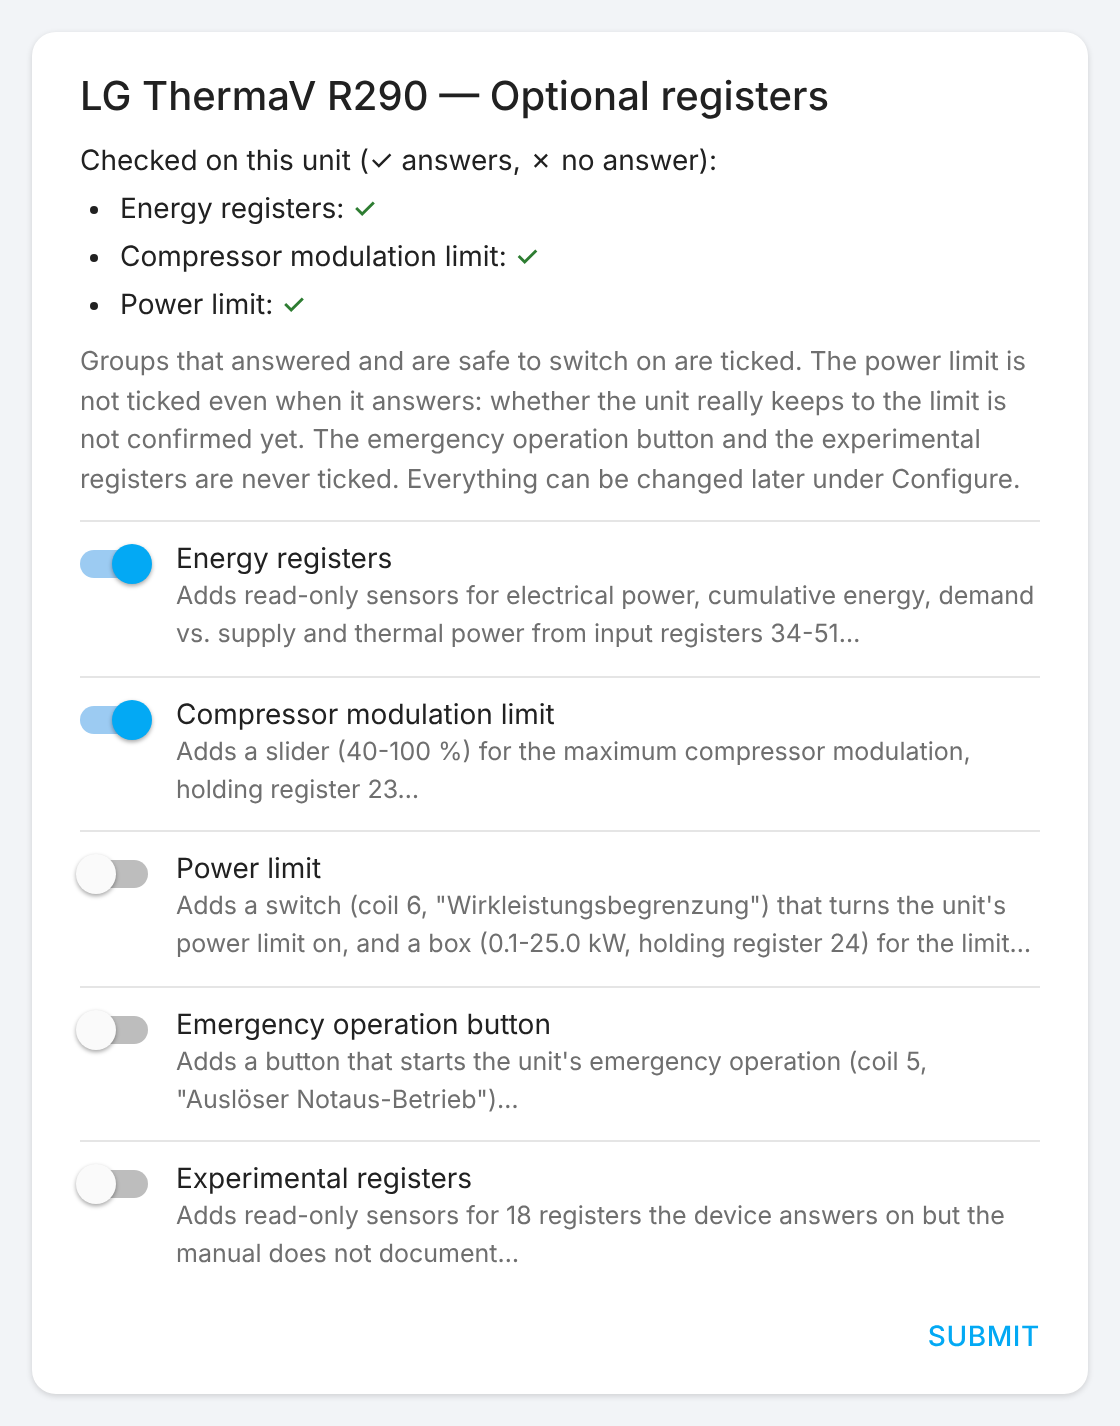
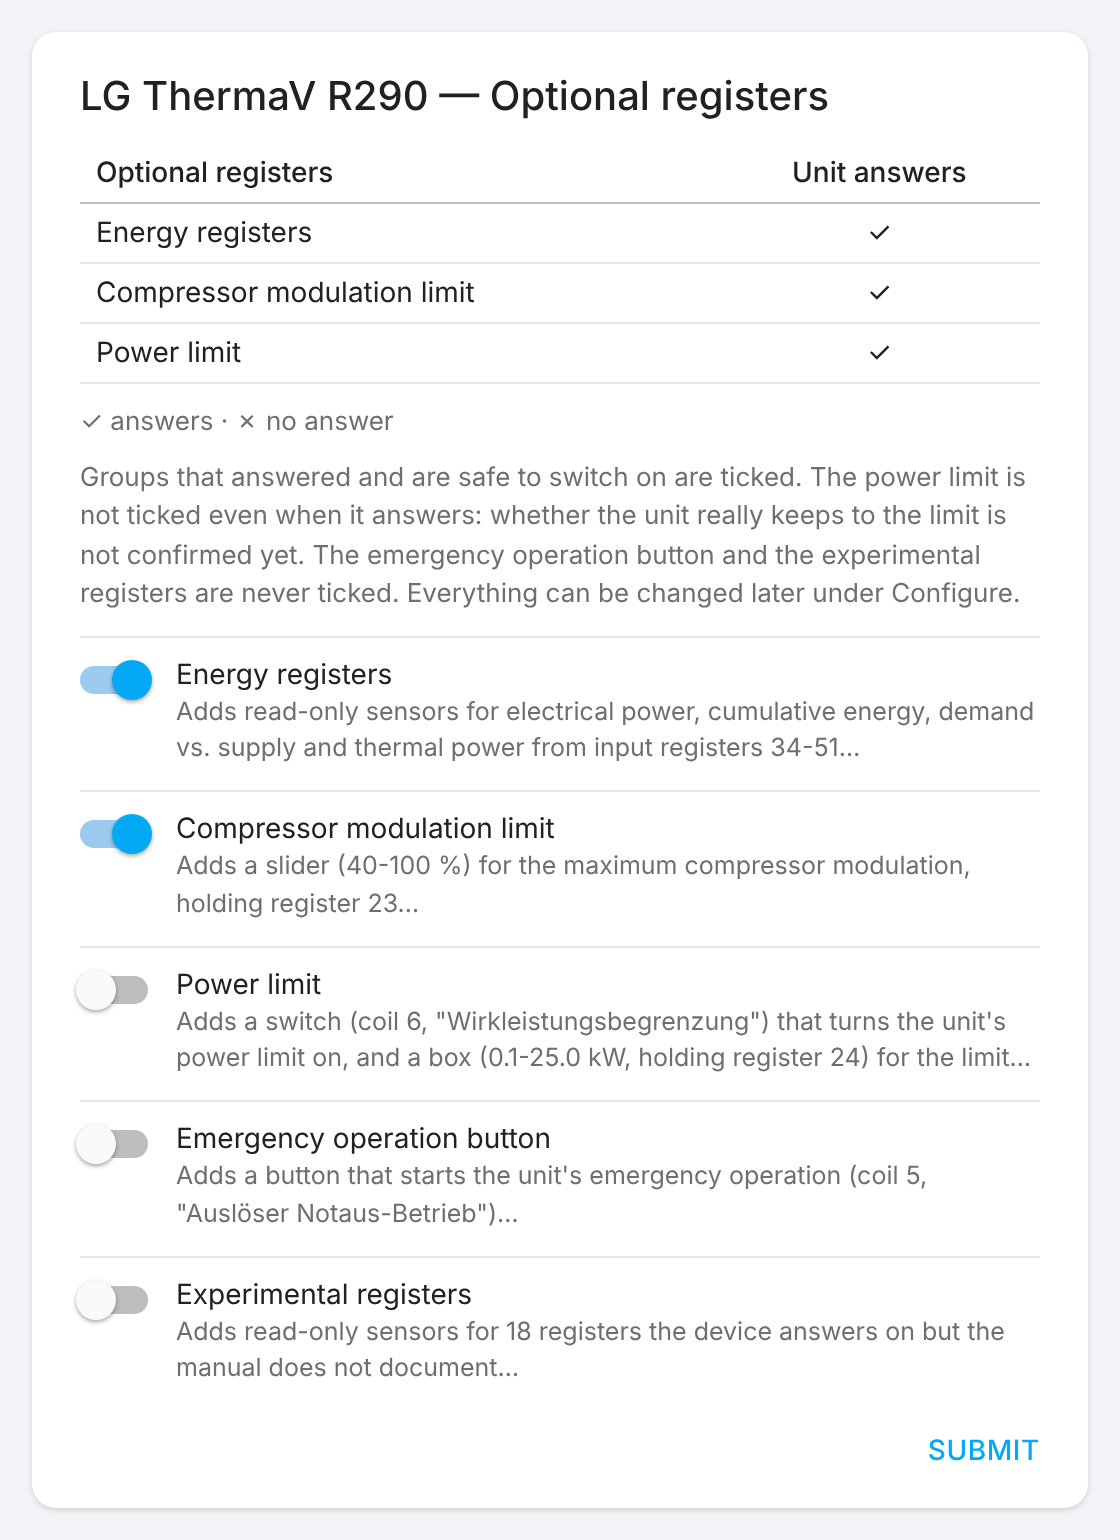
Configure as a menu, with a status table of the optional registers
Configure now opens a menu: a table at the top shows per optional group
whether it is on and what the unit answered on the last check, with a mark
on the groups that answer but are off (what could be switched on), and the
time of that check. Below it, "Options" opens the form (same table above
it) and "Check the optional registers" runs the check and then opens the
form with what answered ticked. The checkbox in the form is gone.

The setup's last step shows the result as a table too. The pictures in
the README are redrawn.

Claude-Session: https://claude.ai/code/session_01818XvRdtC3m2KqpGijvKHP

Changed region(s): [[0.0625, 0.0309, 0.9375, 0.8948], [0.8125, 0.9257, 0.9375, 0.9565], [0.0938, 0.5863, 0.125, 0.6788]]

diff --git a/custom_components/lg_thermav_r290/config_flow.py b/custom_components/lg_thermav_r290/config_flow.py
@@ -16,6 +16,7 @@ from homeassistant.helpers.selector import (
     NumberSelectorConfig,
     NumberSelectorMode,
 )
+from homeassistant.util import dt as dt_util
 from modbus_connection.exceptions import ModbusError, ModbusExceptionError
 import voluptuous as vol
 
@@ -23,12 +24,7 @@ from .connection import params_from_entry_data
 from .const import (
     CONF_BAUDRATE,
     CONF_CONNECTION_TYPE,
-    CONF_EMERGENCY_OPERATION,
-    CONF_ENERGY_REGISTERS,
-    CONF_EXPERIMENTAL,
-    CONF_MODULATION_LIMIT,
     CONF_PARITY,
-    CONF_POWER_LIMIT,
     CONF_SCAN_INTERVAL,
     CONF_SERIAL_PORT,
     CONF_SLAVE_ID,
@@ -44,7 +40,15 @@ from .const import (
     DEFAULT_STOPBITS,
     DOMAIN,
 )
-from .detect import CONF_DETECTED, detect, placeholders, suggested
+from .detect import (
+    CONF_DETECTED,
+    CONF_DETECTED_AT,
+    GROUPS,
+    detect,
+    placeholders,
+    status_placeholders,
+    suggested,
+)
 from .migration import UNIQUE_ID_MINOR_VERSION
 
 _LOGGER = logging.getLogger(__name__)
@@ -162,22 +166,10 @@ async def _detect(hass: HomeAssistant, data: dict) -> dict[str, bool]:
         return {}
 
 
-# CONF_DETECT_AGAIN is a one-shot checkbox in the options, never stored.
-CONF_DETECT_AGAIN = "detect_again"
-# The optional register groups, in the order the forms show them.
-_OPTION_GROUPS = (
-    CONF_ENERGY_REGISTERS,
-    CONF_MODULATION_LIMIT,
-    CONF_POWER_LIMIT,
-    CONF_EMERGENCY_OPERATION,
-    CONF_EXPERIMENTAL,
-)
-
-
 def _option_group_fields(defaults: dict[str, Any]) -> dict:
     return {
         vol.Required(key, default=bool(defaults.get(key, False))): bool
-        for key in _OPTION_GROUPS
+        for key in GROUPS
     }
 
 
@@ -287,7 +279,11 @@ class LGThermaVConfigFlow(config_entries.ConfigFlow, domain=DOMAIN):
             return self.async_create_entry(
                 title=self._title,
                 data=self._data,
-                options={**user_input, CONF_DETECTED: self._detected},
+                options={
+                    **user_input,
+                    CONF_DETECTED: self._detected,
+                    CONF_DETECTED_AT: dt_util.utcnow().isoformat(),
+                },
             )
         return self.async_show_form(
             step_id="features",
@@ -332,59 +328,82 @@ class LGThermaVConfigFlow(config_entries.ConfigFlow, domain=DOMAIN):
         return LGThermaVOptionsFlow(config_entry)
 
 
-class LGThermaVOptionsFlow(config_entries.OptionsFlow):
-    """Allow changing the scan interval and the optional register groups.
+def _checked_at(value: str | None) -> str:
+    """When the registers were last checked, in local time, or – if never."""
+    when = dt_util.parse_datetime(value) if value else None
+    if when is None:
+        return "–"
+    return dt_util.as_local(when).strftime("%Y-%m-%d %H:%M")
 
-    Neither needs the connection details entered again. The result of the
-    last register check is shown next to the groups; ticking "check again"
-    runs it anew and then shows the form once more.
+
+class LGThermaVOptionsFlow(config_entries.OptionsFlow):
+    """Configure: a menu with a status table, the options, and the check.
+
+    The menu shows per optional group whether it is on and whether the unit
+    answered on the last check, so it is visible what could be switched on.
+    "Check the optional registers" runs the check (see detect.py) and then
+    opens the options with what answered ticked; nothing is switched off.
     """
 
     def __init__(self, entry) -> None:
         self._entry = entry
         self._detected: dict[str, bool] | None = entry.options.get(CONF_DETECTED)
+        self._detected_at: str | None = entry.options.get(CONF_DETECTED_AT)
         self._detect_task: asyncio.Task | None = None
-        # The form's values while a check runs, to show them again after it.
-        self._pending: dict[str, Any] | None = None
+        # Option values to show after a check: the current ones plus what
+        # answered.
+        self._suggested: dict[str, Any] | None = None
+
+    def _current(self) -> dict[str, Any]:
+        return {
+            CONF_SCAN_INTERVAL: self._entry.options.get(
+                CONF_SCAN_INTERVAL,
+                self._entry.data.get(CONF_SCAN_INTERVAL, DEFAULT_SCAN_INTERVAL),
+            ),
+            **{key: self._entry.options.get(key, False) for key in GROUPS},
+        }
+
+    def _placeholders(self, options: dict[str, Any]) -> dict[str, str]:
+        return {
+            **status_placeholders(self._detected, options),
+            "checked": _checked_at(self._detected_at),
+        }
 
     async def async_step_init(self, user_input=None) -> FlowResult:
+        return self.async_show_menu(
+            step_id="init",
+            menu_options=["options", "detect"],
+            description_placeholders=self._placeholders(self._current()),
+        )
+
+    async def async_step_options(self, user_input=None) -> FlowResult:
         if user_input is not None:
-            values = dict(user_input)
-            if values.pop(CONF_DETECT_AGAIN, False):
-                self._pending = values
-                self._detect_task = None
-                return await self.async_step_detect()
             return self.async_create_entry(
-                title="", data={**values, CONF_DETECTED: self._detected}
+                title="",
+                data={
+                    **user_input,
+                    CONF_DETECTED: self._detected,
+                    CONF_DETECTED_AT: self._detected_at,
+                },
             )
 
-        if self._pending is not None:
-            defaults = suggested(self._detected, self._pending)
-        else:
-            defaults = {
-                CONF_SCAN_INTERVAL: self._entry.options.get(
-                    CONF_SCAN_INTERVAL,
-                    self._entry.data.get(CONF_SCAN_INTERVAL, DEFAULT_SCAN_INTERVAL),
-                ),
-                **{key: self._entry.options.get(key, False) for key in _OPTION_GROUPS},
-            }
+        defaults = self._suggested or self._current()
         schema = vol.Schema(
             {
                 vol.Required(
                     CONF_SCAN_INTERVAL, default=defaults[CONF_SCAN_INTERVAL]
                 ): vol.All(int, vol.Range(min=5, max=3600)),
                 **_option_group_fields(defaults),
-                vol.Required(CONF_DETECT_AGAIN, default=False): bool,
             }
         )
         return self.async_show_form(
-            step_id="init",
+            step_id="options",
             data_schema=schema,
-            description_placeholders=placeholders(self._detected),
+            description_placeholders=self._placeholders(self._current()),
         )
 
     async def async_step_detect(self, user_input=None) -> FlowResult:
-        """Check the optional registers again, on the entry's own connection."""
+        """Check the optional registers, on the entry's own connection."""
         if self._detect_task is None:
             self._detect_task = self.hass.async_create_task(
                 _detect(self.hass, dict(self._entry.data))
@@ -396,4 +415,6 @@ class LGThermaVOptionsFlow(config_entries.OptionsFlow):
                 progress_task=self._detect_task,
             )
         self._detected = self._detect_task.result()
-        return self.async_show_progress_done(next_step_id="init")
+        self._detected_at = dt_util.utcnow().isoformat()
+        self._suggested = suggested(self._detected, self._current())
+        return self.async_show_progress_done(next_step_id="options")

diff --git a/custom_components/lg_thermav_r290/detect.py b/custom_components/lg_thermav_r290/detect.py
@@ -24,13 +24,30 @@ from typing import Any
 
 from modbus_connection.exceptions import ModbusError
 
-from .const import CONF_ENERGY_REGISTERS, CONF_MODULATION_LIMIT, CONF_POWER_LIMIT
+from .const import (
+    CONF_EMERGENCY_OPERATION,
+    CONF_ENERGY_REGISTERS,
+    CONF_EXPERIMENTAL,
+    CONF_MODULATION_LIMIT,
+    CONF_POWER_LIMIT,
+)
 from .energy import ENERGY_BLOCK_COUNT, ENERGY_BLOCK_START
 from .limits import MODULATION_LIMIT_REGISTER
 from .power_limit import POWER_LIMIT_COIL, POWER_LIMIT_REGISTER
 
-# Option key under which the last result is kept in the entry's options.
+# Option keys under which the last result, and when it was taken (ISO 8601),
+# are kept in the entry's options.
 CONF_DETECTED = "detected"
+CONF_DETECTED_AT = "detected_at"
+
+# All optional register groups, in the order the forms show them.
+GROUPS = (
+    CONF_ENERGY_REGISTERS,
+    CONF_MODULATION_LIMIT,
+    CONF_POWER_LIMIT,
+    CONF_EMERGENCY_OPERATION,
+    CONF_EXPERIMENTAL,
+)
 
 # The groups that are checked, in the order they are asked.
 CHECKED = (CONF_ENERGY_REGISTERS, CONF_MODULATION_LIMIT, CONF_POWER_LIMIT)
@@ -42,6 +59,11 @@ SUGGESTED_WHEN_ANSWERING = frozenset({CONF_ENERGY_REGISTERS, CONF_MODULATION_LIM
 ANSWERS = "✓"
 NO_ANSWER = "✗"
 NOT_CHECKED = "–"
+# Status table: whether an option is on, and the mark for "the unit answers
+# but the option is off", i.e. what could be switched on.
+ON = "✓"
+OFF = "–"
+CAN_BE_SWITCHED_ON = "➕"
 
 
 async def _answers(read) -> bool:
@@ -93,4 +115,25 @@ def placeholders(detected: dict[str, bool] | None) -> dict[str, str]:
             result[key] = NOT_CHECKED
         else:
             result[key] = ANSWERS if detected[key] else NO_ANSWER
+    return result
+
+
+def status_placeholders(
+    detected: dict[str, bool] | None, options: dict[str, Any]
+) -> dict[str, str]:
+    """Placeholders for the status table in Configure.
+
+    Per group ``<key>_on`` (✓ on, – off) and ``<key>`` (✓ answers, ✗ no
+    answer, – not checked), with ➕ after ✓ where the option is off: those
+    are the groups that could be switched on.
+    """
+    answers = placeholders(detected)
+    result = {}
+    for key in GROUPS:
+        on = bool(options.get(key, False))
+        result[f"{key}_on"] = ON if on else OFF
+        mark = answers.get(key, NOT_CHECKED)
+        if mark == ANSWERS and not on:
+            mark = f"{ANSWERS} {CAN_BE_SWITCHED_ON}"
+        result[key] = mark
     return result

diff --git a/tests/test_detect.py b/tests/test_detect.py
@@ -134,3 +134,40 @@ def test_placeholders() -> None:
     unknown = {ENERGY: "–", MODULATION: "–", POWER: "–"}
     assert detect.placeholders(None) == unknown
     assert detect.placeholders({}) == unknown
+
+
+def test_status_shows_what_could_be_switched_on() -> None:
+    detected = {ENERGY: True, MODULATION: True, POWER: False}
+    options = {ENERGY: True, const.CONF_EXPERIMENTAL: True}
+    status = detect.status_placeholders(detected, options)
+    assert status[f"{ENERGY}_on"] == "✓"
+    assert status[ENERGY] == "✓"  # on and answers: nothing to add
+    assert status[f"{MODULATION}_on"] == "–"
+    assert status[MODULATION] == "✓ ➕"  # answers, but off
+    assert status[POWER] == "✗"
+    assert status[f"{const.CONF_EXPERIMENTAL}_on"] == "✓"
+    assert status[const.CONF_EXPERIMENTAL] == "–"  # never checked
+    assert status[const.CONF_EMERGENCY_OPERATION] == "–"
+    assert set(status) == {k for g in detect.GROUPS for k in (g, f"{g}_on")}
+
+
+def test_status_before_any_check() -> None:
+    status = detect.status_placeholders(None, {})
+    assert all(value == "–" for value in status.values())
+
+
+def test_every_placeholder_is_in_the_texts() -> None:
+    """Each description uses exactly the placeholders the flow fills in."""
+    import json
+    import re
+
+    status = set(detect.status_placeholders(None, {})) | {"checked"}
+    setup = set(detect.placeholders(None))
+    for name in ("strings.json", "translations/en.json", "translations/de.json"):
+        texts = json.loads((COMPONENT / name).read_text())
+        steps = texts["options"]["step"]
+        for step in ("init", "options"):
+            found = set(re.findall(r"\{(\w+)\}", steps[step]["description"]))
+            assert found == status, (name, step)
+        features = texts["config"]["step"]["features"]["description"]
+        assert set(re.findall(r"\{(\w+)\}", features)) == setup, name

diff --git a/README.md b/README.md
@@ -109,7 +109,7 @@ The config flow asks for connection type first, then connection-specific paramet
 
 #### Which options the unit supports
 
-After the connection test, the setup asks the unit once which optional register groups it answers on, and shows the result (✓ answers, ✗ no answer) on a last step with the options:
+After the connection test, the setup asks the unit once which optional register groups it answers on, and shows the result (✓ answers, ✗ no answer) as a table on a last step with the options:
 
 | Option | Checked | Ticked when the unit answers |
 |---|---|---|
@@ -128,9 +128,13 @@ Answering only proves the register exists, not that writing it has an effect. A 
 
 *Illustrations of a 12 kW unit that answers on all three groups; Home Assistant's own dialogs look slightly different.*
 
-The last result is shown again under *Configure*. Tick **Check the optional registers again** there to repeat the check, e.g. on an installation set up before 1.5.0 or after a firmware update. The form then comes back with the groups that answered ticked; nothing is switched off.
+**Configure** opens a menu. At the top, a table shows per optional group whether it is on and what the unit answered on the last check; ➕ marks a group the unit answers on but that is off, i.e. what could be switched on. Below it:
 
-<img src="docs/images/setup-options.png" alt="Configure: the last check result, the options, and Check the optional registers again" width="400">
+- **Options**: the poll interval and the optional groups, with the same table above them.
+- **Check the optional registers**: asks the unit again (up to about 30 seconds), then opens the options with the groups that answered ticked, as at setup. Nothing is switched off. Useful on an installation set up before 1.5.0 (the table shows – until then) or after a firmware update.
+
+<img src="docs/images/setup-menu.png" alt="Configure: a table of the optional groups with the columns On and Unit answers, and the menu entries Options and Check the optional registers" width="400"><br>
+<img src="docs/images/setup-options.png" alt="Configure, Options: the same table, the poll interval and the optional groups" width="400">
 
 ---
 
